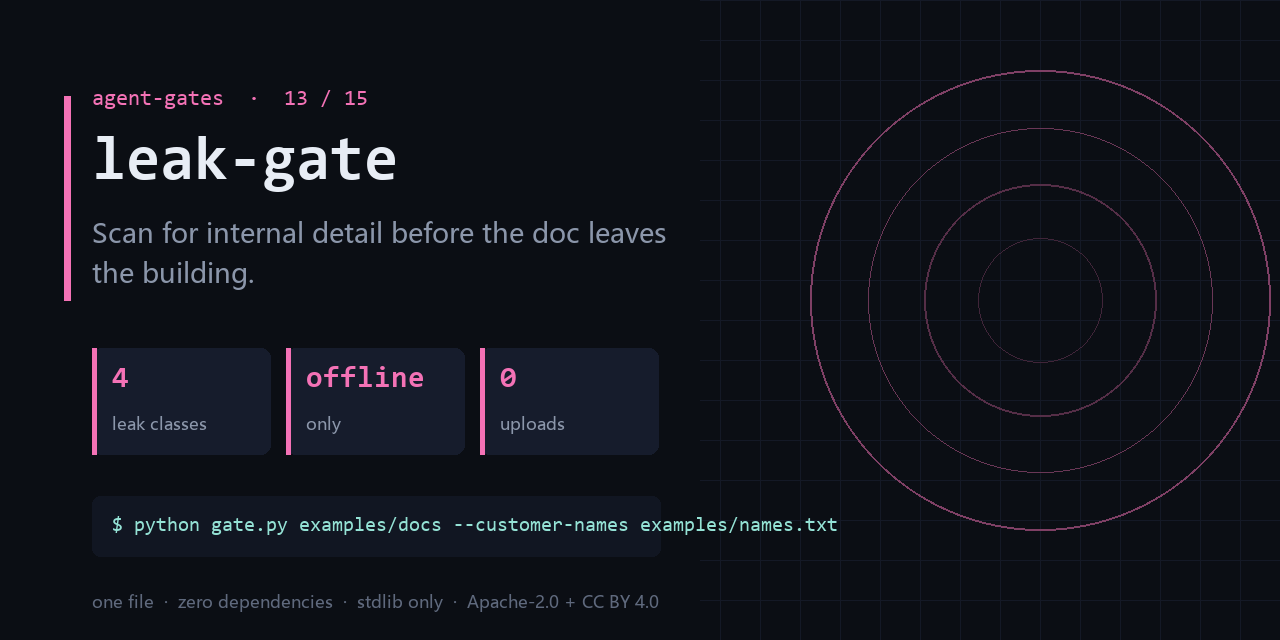
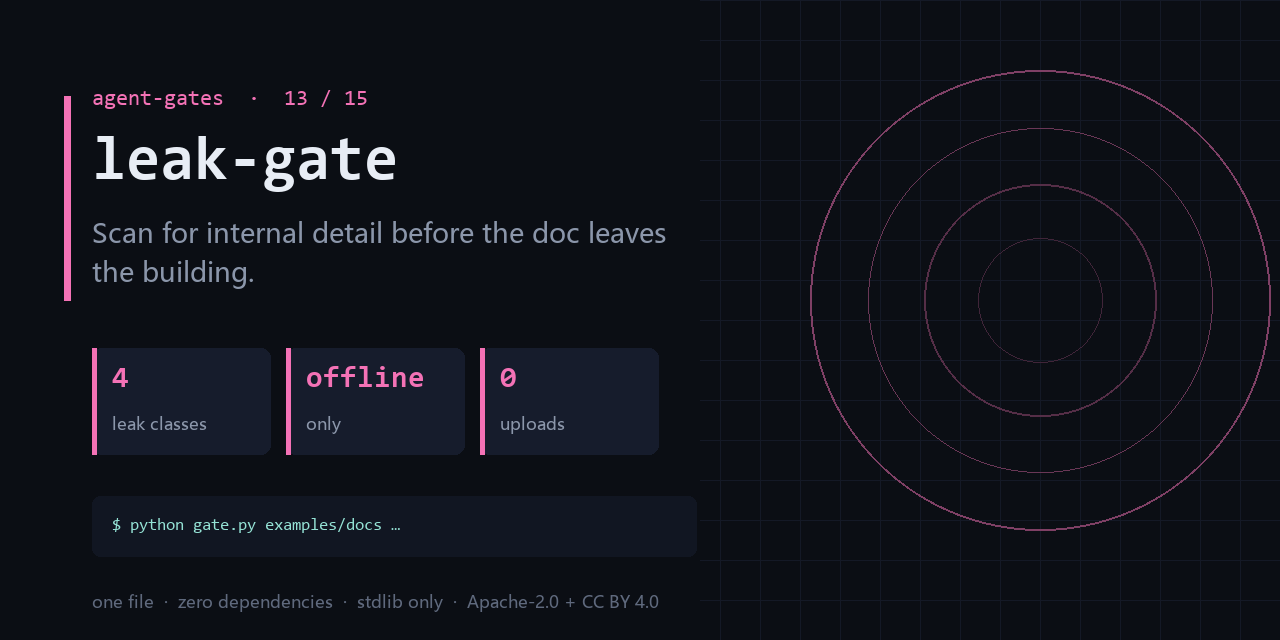
docs: add the series entry map, the hot-ready guarantee, and an honest surface line
Three changes, all of them about not overselling:

1. `## Start here` — fifteen links is a maze, one symptom is a door. A six-row
   symptom -> gate table, so the reader installs the gate they need instead of
   installing nothing (or all fifteen). Also states the star rule plainly:
   no exchange, no unlock, star trading is against GitHub's rules.
2. `## Hot-ready guarantee` — replaces "guaranteed to trend" with fifteen
   machine-checked structural properties, current score, and the script that
   recomputes them. GitHub never published its Trending ranking, so a promise
   about ranking cannot be true; a promise about structure can be verified.
3. The subtitle said `one file` on every repo. It was false on four of them
   (output-gate has 7 python files, complexity-ceiling 3, deadcode-gate and
   trail-gate 2). The line is now computed from the actual file count, and the
   same number is used on the social card. A false claim on the first screen
   costs more trust than it buys attention.

diff --git a/README.md b/README.md
@@ -106,6 +106,66 @@ mistaken for "it inspected my files".
 
 边界：It is a word-list and regex scanner. Reworded leaks will pass.
 
+### 互推：只装一个的话，装哪个
+
+十五个链接是迷宫，一个症状是门。按上表挑一个，其余九个在下面 [The gates](#the-gates)。
+每个仓都能单独活：复制 `gate.py`，一条命令跑完，不共享运行时、不装包、不加配置。
+有星就给这一个，没有也不影响任何仓的可用性——没有任何门是「先给星才能用」。
+
+### 热门前置：保证结构，不保证排名
+
+本页承诺的是 **15 项可机器复核的结构特征**，当前 **15/15**（2026-10-20 复核）。
+GitHub 从未公开 Trending 的排序算法，所以任何「保证上热门」的说法都在描述一件它不可能知道的事；
+本仓不这么说。跑 `python hotness.py` 可自行复算每一条。
+
+## Start here (if you install only one)
+
+Fifteen links is a maze; one symptom is a door. Find your symptom, install that gate,
+ignore the rest until it hurts.
+
+| what you are seeing | install this |
+|---|---|
+| the bill is 10x normal and the trace is a wall of the same step | **[loop-gate](https://github.com/chenhz01/loop-gate)** |
+| the agent can delete prod and nobody signed off on that | **[permission-gate](https://github.com/chenhz01/permission-gate)** |
+| answers get worse after truncation and nobody knows what got dropped | **[context-gate](https://github.com/chenhz01/context-gate)** |
+| two rules in the prompt contradict each other; the model obeys neither | **[instruction-gate](https://github.com/chenhz01/instruction-gate)** |
+| AI text ships with fabricated links and empty phrases | **[output-gate](https://github.com/chenhz01/output-gate)** |
+| half the repo might be dead and nobody can prove which half | **[deadcode-gate](https://github.com/chenhz01/deadcode-gate)** |
+
+A gate you did not need is a gate you uninstall, so nothing here says "install all
+fifteen". Each repo stands alone: copy `gate.py`, run one command, no shared runtime,
+no package manager, no config file to grow.
+
+**On stars.** If this one saved you an incident, star it — that is the only signal I get
+about which gate to build next. There is no exchange: starring one repo does not owe me
+a star on another, and no gate here is unlocked by a star. Star trading breaks GitHub's
+rules and would poison the single honest metric this project has.
+
+## Hot-ready guarantee
+
+What is guaranteed is **structure**, not ranking. Fifteen properties, each one
+machine-checked against this repo — current score **15/15** (2026-10-20).
+
+Plain version: instead of asking you to trust a badge, I list what I actually checked,
+name the script that checks it, and let you re-run it. If one of these lines is false,
+that is a bug in my repo, not a matter of taste.
+
+- Falsifiable side: `python hotness.py` re-runs every check and prints the evidence line
+  for each one. You do not have to trust this paragraph.
+- Non-falsifiable side: GitHub has never published how Trending sorts repositories, so
+  any repo promising you a guaranteed spot is telling you something it cannot know.
+  This one does not make that promise.
+- If a claim on this page stops being true, that is a bug: open an issue and it gets
+  fixed in the same week, not in the next launch.
+
+What actually carries this repo:
+
+- the command in this README is byte-for-byte the command CI runs <sub>(57-char argv, exact match)</sub>
+- the output block is a real run of `examples/`, not a mock-up <sub>(Real output section)</sub>
+- CI asserts the exit code, so the badge can turn red — and it has <sub>(asserts exit=0)</sub>
+- every fixture is committed, so a fresh clone reproduces the output <sub>(2 files under examples/ tracked in git)</sub>
+- `* -text` in `.gitattributes`: same bytes on Windows and Linux <sub>(.gitattributes * -text)</sub>
+
 ## The gates
 
 | # | gate | what it stops |
